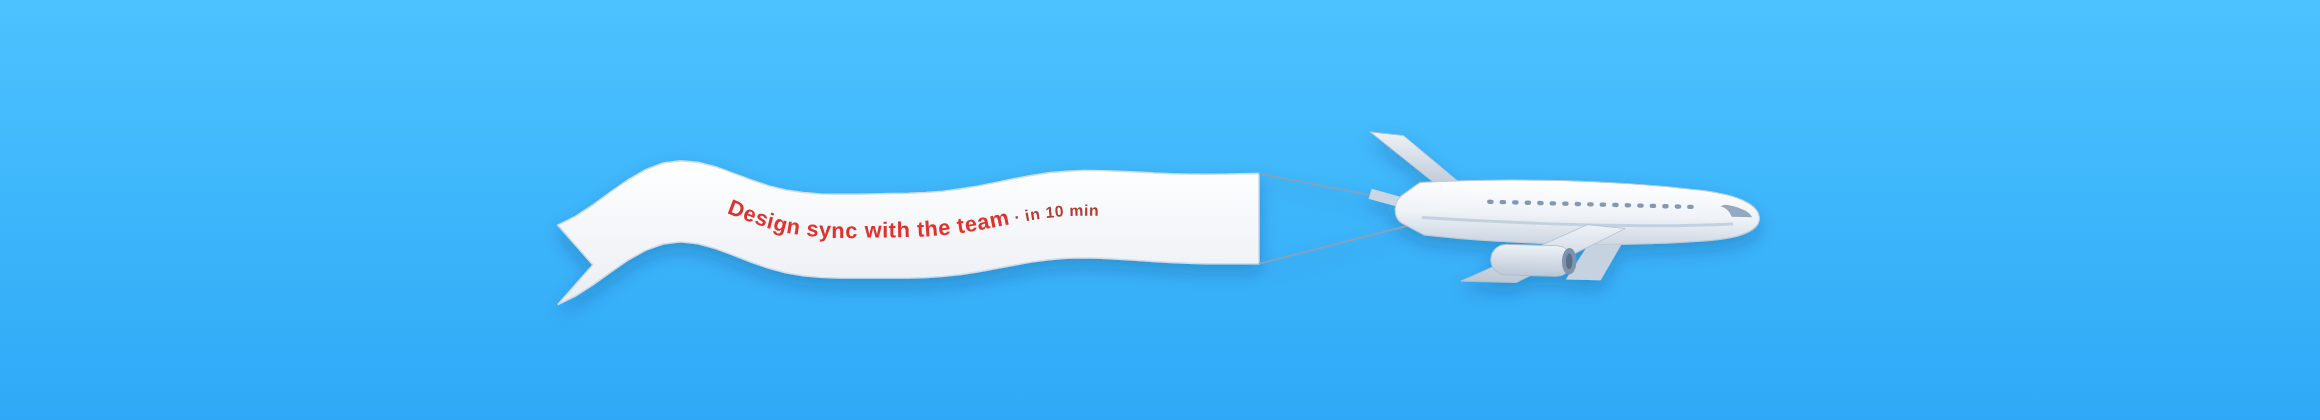
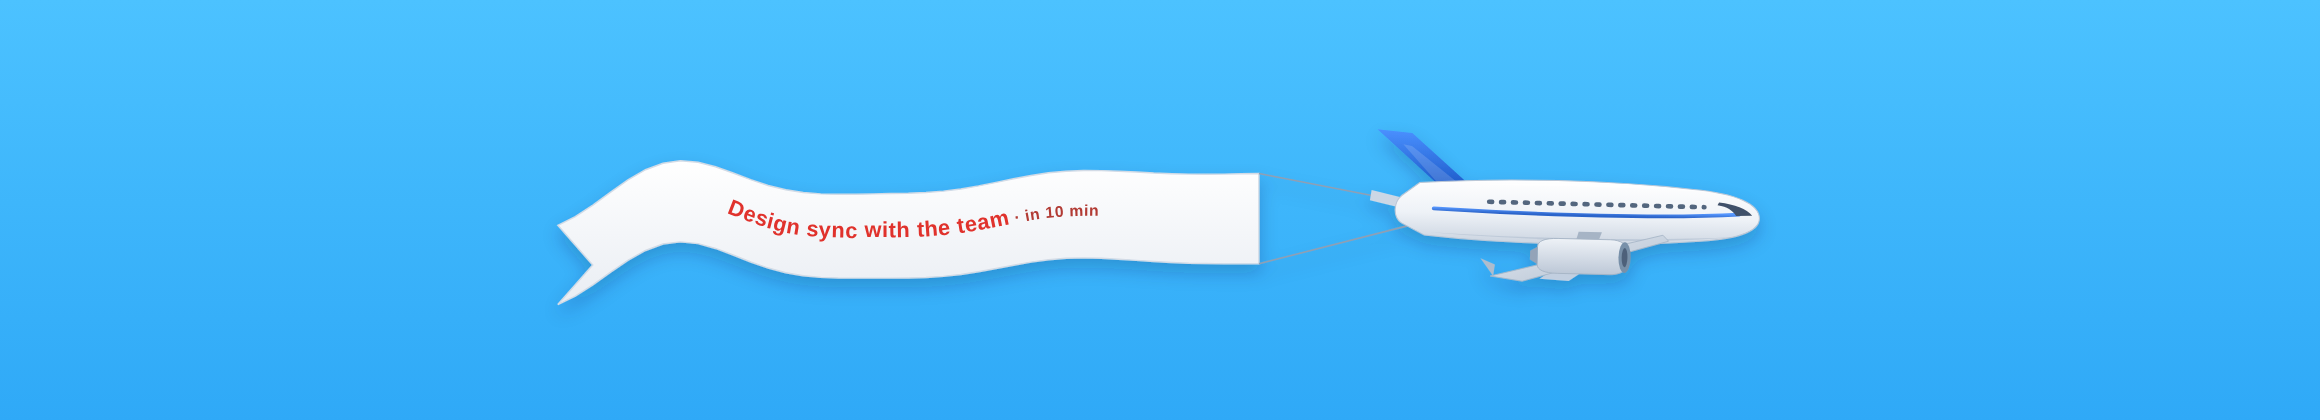
Polish the airliner: blue livery, cheatline, winglet, engine on a pylon
Redraw the plane to look premium: a blue livery tail fin and a cheatline
that sweeps along the windows into a proper cockpit windscreen, top-highlight
and belly-shading for volume, a winglet on the swept wing, and a sleeker
engine nacelle tucked under the wing on a pylon (intake ring + exhaust).
Adds fb-wing and fb-tail gradients. Refreshed docs/demo.gif and preview.png.

Claude-Session: https://claude.ai/code/session_01VPaScwsAeFB4acSnPVsN7B

Changed region(s): [[0.6207, 0.4643, 0.7759, 0.681], [0.5897, 0.3095, 0.6517, 0.4333], [0.3724, 0.5262, 0.4034, 0.5571]]

diff --git a/src/content.js b/src/content.js
@@ -77,25 +77,41 @@
 
   const PLANE = `
     <g id="fb-plane">
-      <path d="M 748,104 L 720,150 L 744,150 L 768,106 Z" fill="#c6d2e0"/>
-      <path d="M 620,100 L 585,91 L 583,98 L 620,107 Z" fill="#cbd6e4"/>
-      <path d="M 632,89 L 583,52 L 606,54 L 650,89 Z" fill="url(#fb-metal)" stroke="#b4c1d1" stroke-width=".6"/>
+      <!-- far wing (behind the fuselage) -->
+      <path d="M 762,106 L 702,150 L 722,151 L 782,109 Z" fill="#c2cfe0"/>
+      <!-- horizontal stabilizer -->
+      <path d="M 626,101 L 585,92 L 584,99 L 626,108 Z" fill="#ccd7e5"/>
+      <!-- vertical tail fin (blue livery) -->
+      <path d="M 634,90 L 588,50 L 612,52 L 656,90 Z" fill="url(#fb-tail)"/>
+      <path d="M 634,90 L 606,60 L 612,61 L 650,90 Z" fill="#ffffff" opacity=".15"/>
+      <!-- fuselage -->
       <path d="M 618,86
                C 678,81 748,81 806,86
                C 836,88 852,95 852,105
                C 852,114 836,120 806,122
                C 748,127 678,127 622,122
                L 606,114 C 600,110 600,100 606,95 Z"
-            fill="url(#fb-fus)" stroke="#c0cad8" stroke-width=".7"/>
-      <path d="M 828,96 C 838,97 845,100 847,104 L 833,104 C 831,100 829,98 825,97 Z" fill="#93a8c1"/>
-      <line x1="666" y1="98" x2="812" y2="98" stroke="#8398b2" stroke-width="3" stroke-linecap="round" stroke-dasharray="1.6 7"/>
-      <path d="M 620,110 C 700,113 782,113 834,109" fill="none" stroke="#c3d0df" stroke-width="2"/>
-      <path d="M 734,112 L 648,153 L 686,153 L 760,114 Z" fill="url(#fb-metal)" stroke="#b4c1d1" stroke-width=".6"/>
-      <g>
-        <rect x="668" y="127" width="56" height="21" rx="10.5" fill="url(#fb-metal)" stroke="#aebccd" stroke-width=".6"/>
-        <ellipse cx="722" cy="137.5" rx="5" ry="9.2" fill="#7e93ac"/>
-        <ellipse cx="722" cy="137.5" rx="2.3" ry="5.4" fill="#5c7089"/>
-      </g>
+            fill="url(#fb-fus)" stroke="#bcc7d6" stroke-width=".7"/>
+      <!-- top highlight + belly shade for volume -->
+      <path d="M 648,87 C 710,83 776,83 824,88 C 776,85.5 710,85.5 648,87 Z" fill="#ffffff" opacity=".5"/>
+      <path d="M 626,120 C 704,124.5 782,124 836,118 C 786,122 704,123 626,120 Z" fill="#adbbcd" opacity=".55"/>
+      <!-- blue cheatline -->
+      <path d="M 628,103.5 C 704,106.5 788,106.5 838,102.5" fill="none" stroke="url(#fb-tail)" stroke-width="2.6" stroke-linecap="round" opacity=".92"/>
+      <!-- passenger windows -->
+      <line x1="666" y1="98" x2="814" y2="98" stroke="#53667e" stroke-width="3.2" stroke-linecap="round" stroke-dasharray="2 6.2"/>
+      <!-- cockpit windscreen -->
+      <path d="M 824,94.5 C 835,95.5 843,98.5 847,103 L 836,103.5 C 833,99.5 830,97.5 823,96.5 Z" fill="#41516a"/>
+      <!-- near wing (foreground) + winglet -->
+      <path d="M 786,118 L 668,149 L 690,152 L 790,122 Z" fill="url(#fb-wing)" stroke="#a8b6c8" stroke-width=".6"/>
+      <path d="M 670,149 L 661,137 L 671,141 Z" fill="#aebccd"/>
+      <!-- pylon + engine slung under the wing -->
+      <path d="M 728,117 L 744,117 L 740,128 L 725,128 Z" fill="#a6b4c5"/>
+      <path d="M 700,128 C 700,124 705,122 714,122 L 750,122 C 757,122 762,125 762,129
+               L 762,139 C 762,143 757,146 750,146 L 714,146 C 705,146 700,144 700,140 Z"
+            fill="url(#fb-metal)" stroke="#a4b3c4" stroke-width=".6"/>
+      <ellipse cx="760" cy="134" rx="4.2" ry="10.6" fill="#7890a9"/>
+      <ellipse cx="760" cy="134" rx="2" ry="6.6" fill="#4d617a"/>
+      <path d="M 700,128 L 695,131 L 695,137 L 700,140 Z" fill="#93a3b8"/>
     </g>`;
 
   const SVG = `
@@ -107,6 +123,12 @@
         </linearGradient>
         <linearGradient id="fb-metal" x1="0" y1="0" x2="0" y2="1">
           <stop offset="0" stop-color="#eef2f7"/><stop offset="1" stop-color="#bdc8d7"/>
+        </linearGradient>
+        <linearGradient id="fb-wing" x1="0" y1="0" x2="1" y2="1">
+          <stop offset="0" stop-color="#e6ebf2"/><stop offset="1" stop-color="#b1bfd0"/>
+        </linearGradient>
+        <linearGradient id="fb-tail" x1="0" y1="0" x2="0" y2="1">
+          <stop offset="0" stop-color="#4a90ff"/><stop offset="1" stop-color="#1b58c6"/>
         </linearGradient>
         <linearGradient id="fb-ban" x1="0" y1="0" x2="0" y2="1">
           <stop offset="0" stop-color="#ffffff"/><stop offset="1" stop-color="#e9edf3"/>
